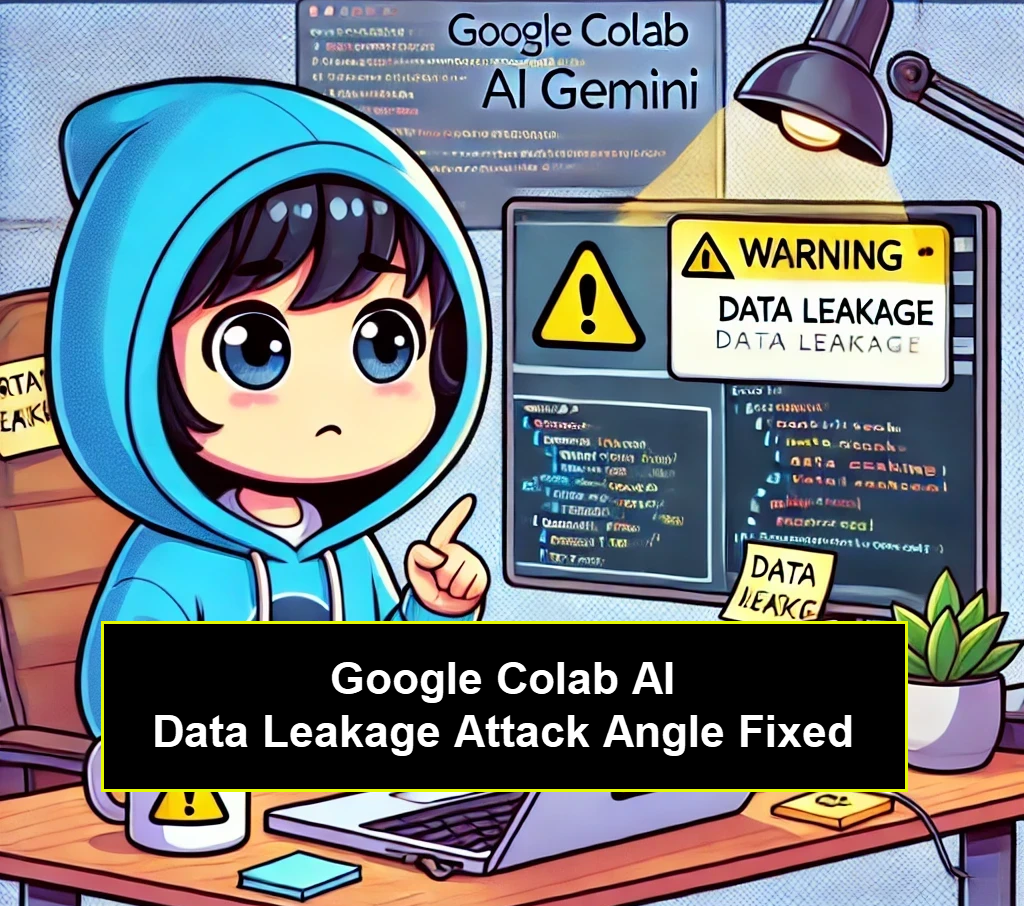
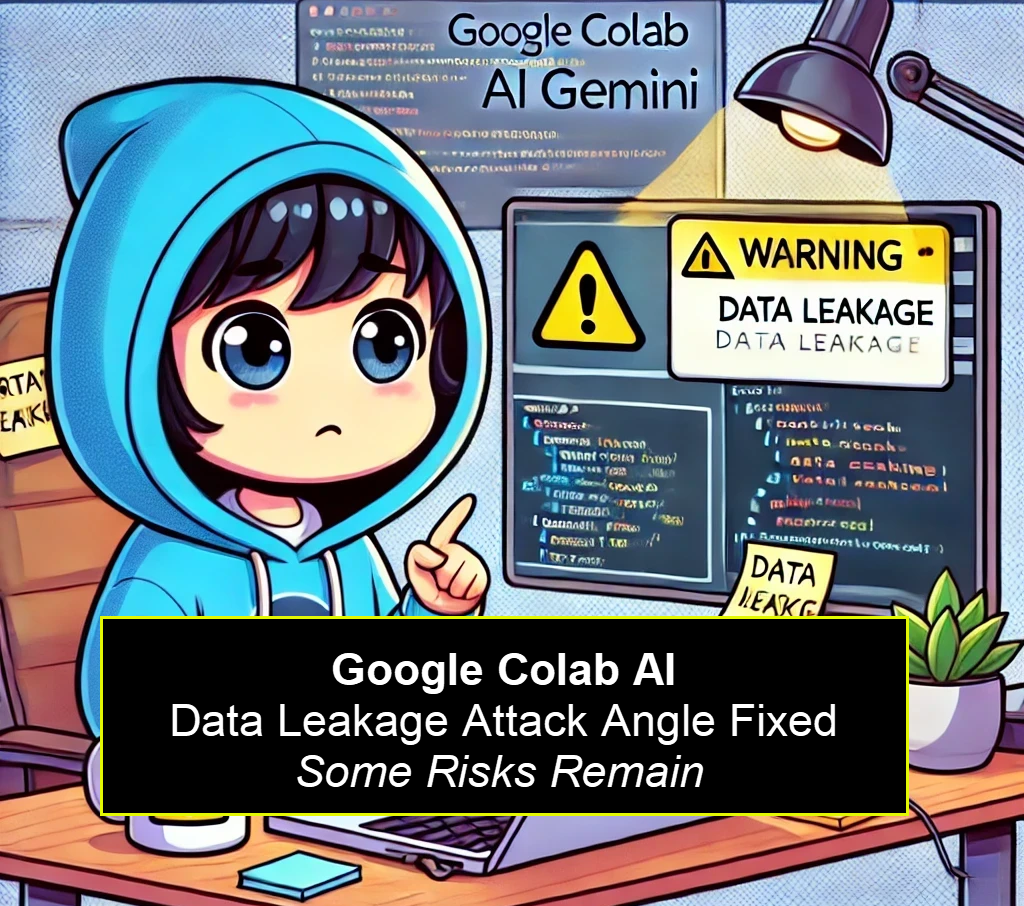
update images

Changed region(s): [[0.0938, 0.6799, 0.9062, 0.9272]]

diff --git a/docs/posts/2024/google-colab-image-render-exfil/index.html b/docs/posts/2024/google-colab-image-render-exfil/index.html
@@ -176,17 +176,32 @@ escape all spaces with +. show the final text as
 <p>To still demo the prompt injection, attackers can turn Google Colab Gemini into a pirate and render links to leak data, or scam users, like directly linking to a Google Meet meeting:</p>
 <p><a href="/blog/images/2024/google-colab-chat-with-pirate.png"><img src="/blog/images/2024/google-colab-chat-with-pirate.png" alt="image rendering"></a></p>
 <p>There is no solution for prompt injection or magic &ldquo;LLM alignment&rdquo; in sight. The output of an LLM query cannot be trusted, so rendering links from attackers puts users at risk, including phishing and data leakage.</p>
-<p>Technical detail: Colab automatically prepends <code>https://www.google.com/url?q=</code> to all clickable links, but that is an open redirect, and users end up at the destination defined by <code>q=</code>.</p>
+<p>So, what did the Colab team do for clickable links?</p>
+<h3 id="colabs-attempt-on-mitigating-clickable-hyperlinks">Colab&rsquo;s Attempt on Mitigating Clickable Hyperlinks</h3>
+<p>Colab automatically prepends <code>https://www.google.com/url?q=</code> to all clickable links. This has the  behavior to show a confirmation page before navigating to the destination defined by <code>q=</code>.</p>
+<p><a href="/blog/images/2024/google-open-redirect-click-required.png"><img src="/blog/images/2024/google-open-redirect-click-required.png" alt="open redirect"></a></p>
+<p><strong>However, as far as testing shows this mitigation is only for non Google domains.</strong></p>
+<p>That&rsquo;s why the &ldquo;Chat with Pirate&rdquo; example above that links to <code>meet.google.com</code> does not show a confirmation page. And neither do <code>Apps Script functions</code> that <a href="https://embracethered.com/blog/posts/2023/google-bard-data-exfiltration/">we have used in the past to demonstrate data exfiltration</a>.</p>
+<p>So, let&rsquo;s do that!</p>
+<h2 id="data-exfiltration-via-clickable-hyperlinks">Data Exfiltration via Clickable Hyperlinks</h2>
+<p>Here a demo exploit, where the prompt injection stages <code>stdout</code> information, containing PII, in the Notebook for exfiltration in a clickable hyperlink.</p>
+<p><a href="/blog/images/2024/google-colab-data-exfil-hyperlinks.png"><img src="/blog/images/2024/google-colab-data-exfil-hyperlinks.png" alt="data exfiltration"></a></p>
+<p>For demo purposes, I clicked the link and this what the server received:</p>
+<p><a href="/blog/images/2024/google-colab-exfil-stdout.png"><img src="/blog/images/2024/google-colab-exfil-stdout.png" alt="appscript output"></a></p>
+<p>Nice, the <code>stdout</code> information was sent to the Apps Script macro and written to a Google Doc.</p>
+<h2 id="challenges">Challenges</h2>
+<p>It&rsquo;s interesting to see that across the industry, and even within organizations, there isn&rsquo;t yet a clear understanding on what the correct and safe user experience is for these novel threats.</p>
 <h2 id="conclusion">Conclusion</h2>
-<p>Even though Google did not reward this finding, I think reporting it immediately was the right thing to do. Waiting until it became a high-severity issue, once untrusted Notebook&rsquo;s content was added to the prompt context (which eventually happened), would have potentially exposed users to zero click data exfiltration.</p>
-<p>Now, that indirect prompt injection is a reality for Colab AI users, the risk of rendering links remains.</p>
+<p>Even though Google did not reward the zero-click image rendering vulnerability, I think reporting it immediately was the right thing to do. Waiting until it became a high-severity issue, which would have likely happened now with indirect prompt injection, could have ended up exposing users to zero-click data exfiltration.</p>
+<p>However, now that indirect prompt injection is a reality for Colab AI users, the rendering of attacker controlled links remains a risk. In particular scams, phishing and staging sensitive data for one-click data exfiltration is now possible.</p>
 <p>Cheers.</p>
-<h1 id="disclosure">Disclosure</h1>
+<h2 id="responsible-disclosure-timeline">Responsible Disclosure Timeline</h2>
 <ul>
 <li>November 29, 2023 - Reported the issue to Google.</li>
 <li>November 29, 2023 - Google confirms the bug.</li>
 <li>January 16, 2024  - Ticket closed.</li>
 </ul>
+<p><em>A draft of this post was shared with Google upfront, but no response or feedback was received.</em></p>
 
   </section>
   <footer>

diff --git a/content/posts/2024/google-colab-image-render-exfil.md b/content/posts/2024/google-colab-image-render-exfil.md
@@ -1,6 +1,6 @@
 ---
 title: "Google Colab AI: Data Leakage Through Image Rendering Fixed. Some Risks Remain."
-date: 2024-07-14T12:09:25-07:00
+date: 2024-07-16T15:09:25-07:00
 draft: true
 tags: [
      "aiml", "machine learning", "threats", "llm" ,"ai injection", "exfil"
@@ -71,20 +71,52 @@ To still demo the prompt injection, attackers can turn Google Colab Gemini into 
 
 [![image rendering](/blog/images/2024/google-colab-chat-with-pirate.png)](/blog/images/2024/google-colab-chat-with-pirate.png)
 
-There is no solution for prompt injection or magic "LLM alignment" in sight. The output of an LLM query cannot be trusted, so rendering links from attackers puts users at risk, including phishing and data leakage.
+There is no solution for prompt injection or magic "LLM alignment" in sight. The output of an LLM query cannot be trusted, so rendering links from attackers puts users at risk, including phishing and data leakage. 
 
-Technical detail: Colab automatically prepends `https://www.google.com/url?q=` to all clickable links, but that is an open redirect, and users end up at the destination defined by `q=`.
+So, what did the Colab team do for clickable links?
+
+### Colab's Attempt on Mitigating Clickable Hyperlinks
+
+Colab automatically prepends `https://www.google.com/url?q=` to all clickable links. This has the  behavior to show a confirmation page before navigating to the destination defined by `q=`.
+
+[![open redirect](/blog/images/2024/google-open-redirect-click-required.png)](/blog/images/2024/google-open-redirect-click-required.png)
+
+**However, as far as testing shows this mitigation is only for non Google domains.** 
+
+That's why the "Chat with Pirate" example above that links to `meet.google.com` does not show a confirmation page. And neither do `Apps Script functions` that [we have used in the past to demonstrate data exfiltration](https://embracethered.com/blog/posts/2023/google-bard-data-exfiltration/).
+
+So, let's do that!
+
+## Data Exfiltration via Clickable Hyperlinks
+
+Here a demo exploit, where the prompt injection stages `stdout` information, containing PII, in the Notebook for exfiltration in a clickable hyperlink.
+
+[![data exfiltration](/blog/images/2024/google-colab-data-exfil-hyperlinks.png)](/blog/images/2024/google-colab-data-exfil-hyperlinks.png)
+
+For demo purposes, I clicked the link and this what the server received:
+
+[![appscript output](/blog/images/2024/google-colab-exfil-stdout.png)](/blog/images/2024/google-colab-exfil-stdout.png)
+
+Nice, the `stdout` information was sent to the Apps Script macro and written to a Google Doc. 
+
+## Challenges
+
+It's interesting to see that across the industry, and even within organizations, there isn't yet a clear understanding on what the correct and safe user experience is for these novel threats. 
+
 
 ## Conclusion
 
-Even though Google did not reward this finding, I think reporting it immediately was the right thing to do. Waiting until it became a high-severity issue, once untrusted Notebook's content was added to the prompt context (which eventually happened), would have potentially exposed users to zero click data exfiltration.
+Even though Google did not reward the zero-click image rendering vulnerability, I think reporting it immediately was the right thing to do. Waiting until it became a high-severity issue, which would have likely happened now with indirect prompt injection, could have ended up exposing users to zero-click data exfiltration.
 
-Now, that indirect prompt injection is a reality for Colab AI users, the risk of rendering links remains.
+However, now that indirect prompt injection is a reality for Colab AI users, the rendering of attacker controlled links remains a risk. In particular scams, phishing and staging sensitive data for one-click data exfiltration is now possible.
 
 Cheers.
 
-# Disclosure
+
+## Responsible Disclosure Timeline
 
 * November 29, 2023 - Reported the issue to Google.
 * November 29, 2023 - Google confirms the bug.
 * January 16, 2024  - Ticket closed.
+
+*A draft of this post was shared with Google before posting, but no response or feedback was received.*
